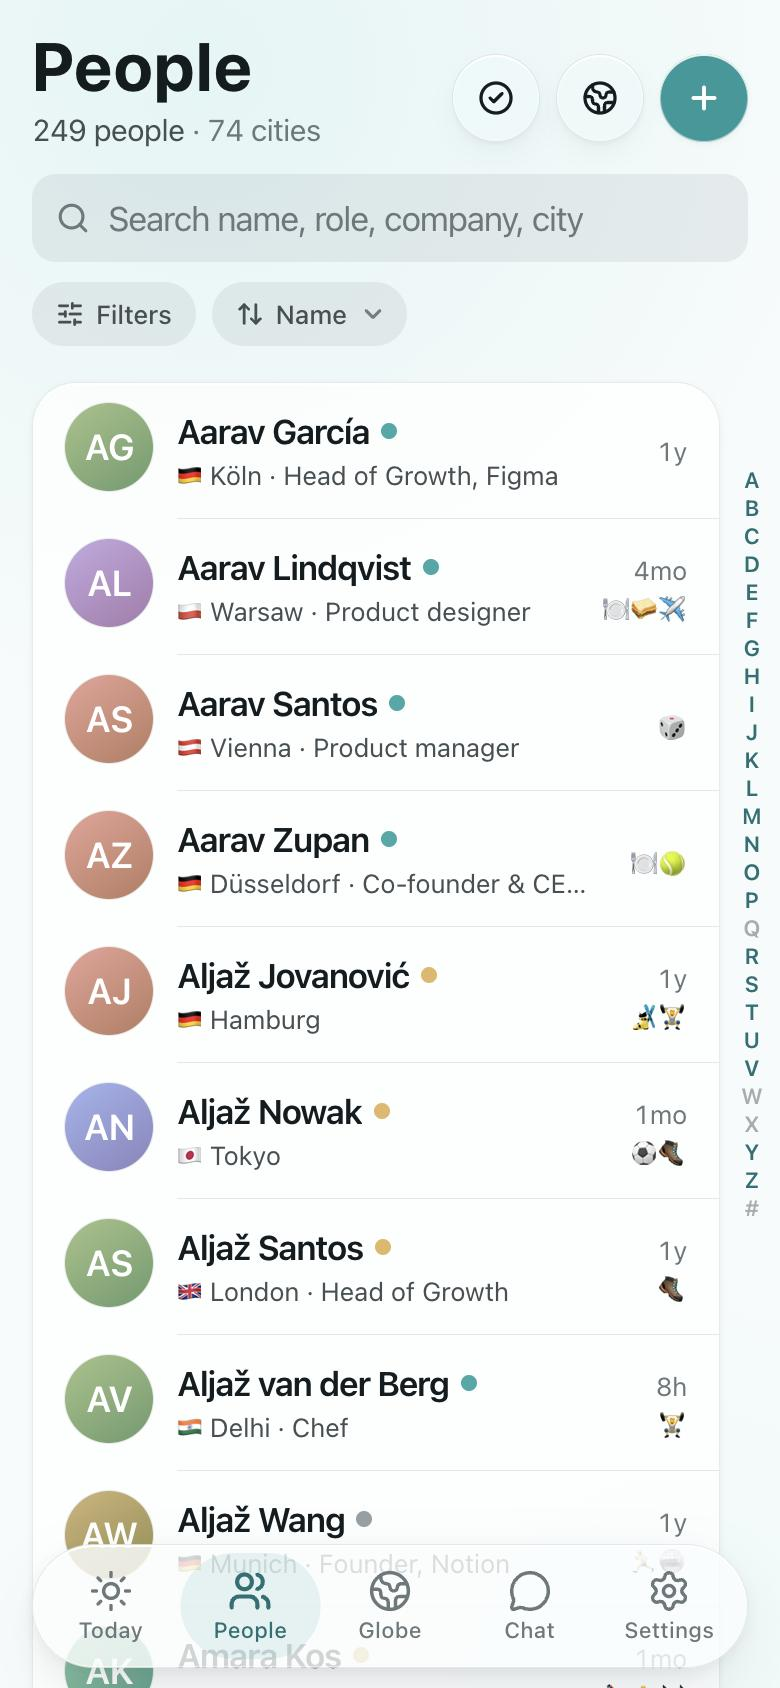
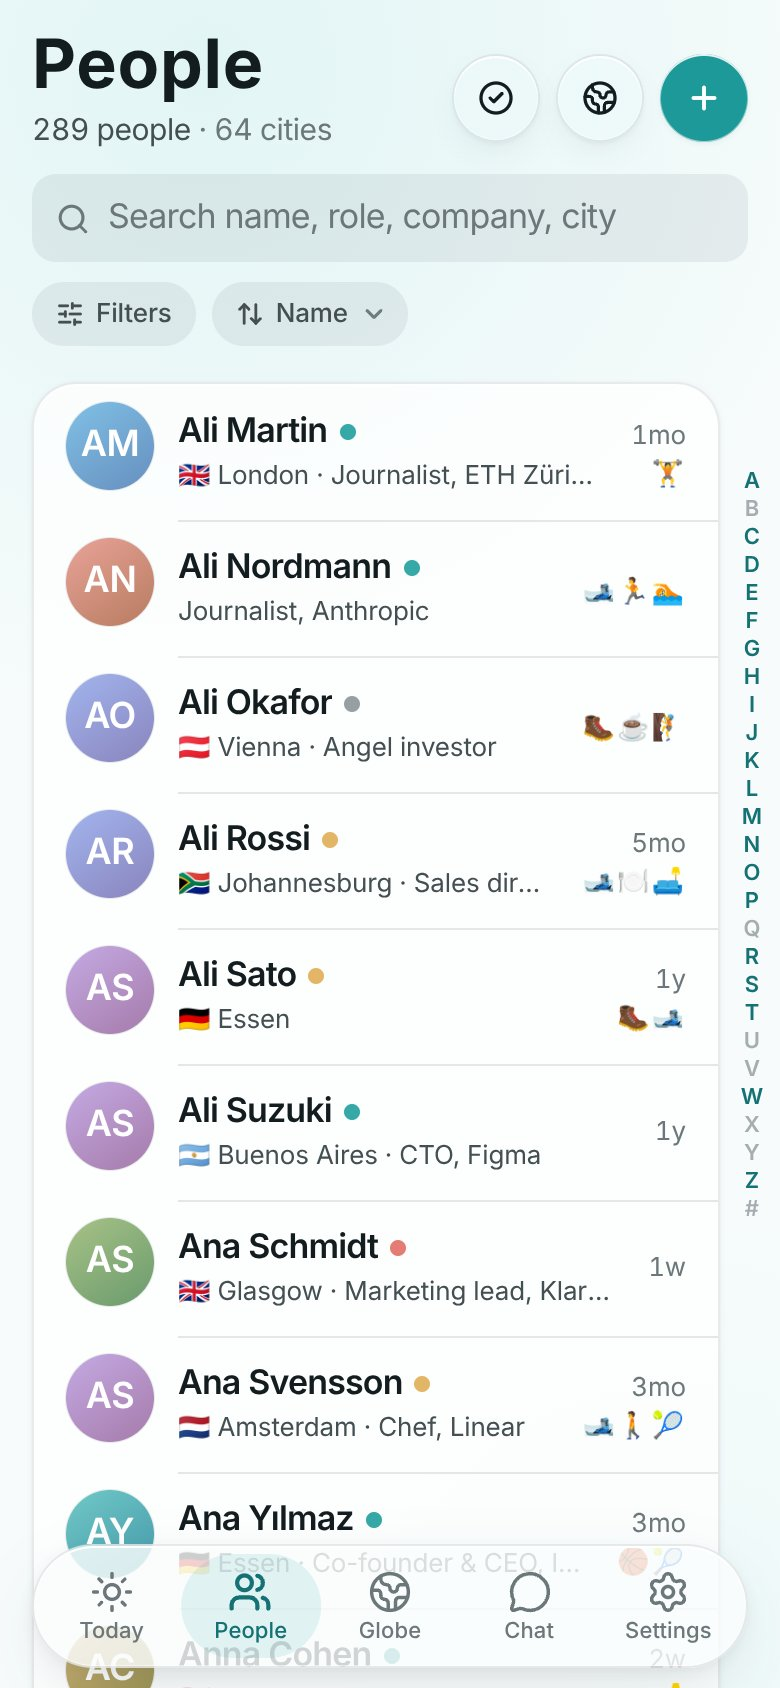
README screenshots retaken from the real app with a placeholder cast
The README and landing-page images (Today, a person, People, Globe and the
social card) are new screenshots of the app running locally. They show
placeholder people (Hanako Yamada, Max Mustermann, Marie Dupont, John Doe,
Ola Nordmann) instead of names that match real people.

scripts/dev/seed-demo.ts seeds that cast. The seed scripts draw from neutral
name pools, spread people over every continent and never repeat a name.

Claude-Session: https://claude.ai/code/session_01SZ8xALtSGsx2UckXDu2Tt8

diff --git a/scripts/dev/seed-people.ts b/scripts/dev/seed-people.ts
@@ -42,10 +42,10 @@ const FIRST = [
   "Anna", "Maria", "John", "Jane", "Max", "Erika", "Ola", "Kari", "Jan", "Janez", "Marija", "Ivan", "Petra", "Marko", "Ana", "José",
   "Juan", "Carlos", "Sofia", "Emma", "Lucas", "Noah", "Mia", "Leon", "Hanna", "Sven", "Matti", "Maija", "Hanako", "Taro", "Kenji", "Wei",
   "Ali", "Fatima", "Omar", "Grace", "Thabo", "Raj", "Pedro", "João", "Rita", "Tiago", "Elena", "Luca", "Giulia", "Marie", "Jean", "Pierre",
-  "David", "Daniel", "Laura", "Paul", "Peter", "Eva", "Tom", "Nina", "Sara", "Lena", "Oscar", "Zoë",
+  "David", "Daniel", "Laura", "Paul", "Peter", "Eva", "Tom", "Nina", "Lina", "Lena", "Oscar", "Zoë",
 ];
 const LAST = [
-  "Doe", "Smith", "Bloggs", "Novak", "Horvat", "Kovač", "Mustermann", "Müller", "Schmidt", "Rossi", "Bianchi", "Dupont", "Martin", "García",
+  "Doe", "Smith", "Bloggs", "Novak", "Horvat", "Kovač", "Mustermann", "Weber", "Schmidt", "Rossi", "Bianchi", "Dupont", "Martin", "García",
   "Pérez", "López", "Silva", "Santos", "Costa", "Jansen", "de Vries", "Nordmann", "Hansen", "Andersson", "Svensson", "Virtanen", "Nagy",
   "Popescu", "Petrović", "Yılmaz", "Cohen", "Hassan", "Kim", "Lee", "Park", "Wang", "Li", "Zhang", "Chen", "Yamada", "Sato", "Suzuki",
   "Nguyen", "Singh", "Kumar", "Mwangi", "Okafor", "Brown", "Wilson", "Taylor",
@@ -113,7 +113,8 @@ async function seed(count: number) {
 
   // Unique names, also against people already there (e.g. scripts/dev/seed-demo.ts), so People shows no "Possible duplicates".
   const nameKey = (name: string) => name.normalize("NFD").replace(/\p{M}/gu, "").toLowerCase().split(/\s+/).sort().join(" ");
-  const taken = new Set((await sql<{ name: string }[]>`select display_name as name from people where owner_id = ${owner} and deleted_at is null`).map((r) => nameKey(r.name)));
+  const existing = await sql<{ name: string }[]>`select display_name as name from people where owner_id = ${owner} and deleted_at is null`;
+  const taken = new Set(existing.map((r) => nameKey(r.name)));
   const uniqueName = (): [string, string] => {
     let name: [string, string];
     let tries = 0;

diff --git a/scripts/dev/globe-seed.ts b/scripts/dev/globe-seed.ts
@@ -60,10 +60,10 @@ const FIRST = [
   "Anna", "Maria", "John", "Jane", "Max", "Erika", "Ola", "Kari", "Jan", "Janez", "Marija", "Ivan", "Petra", "Marko", "Ana", "José",
   "Juan", "Carlos", "Sofia", "Emma", "Lucas", "Noah", "Mia", "Leon", "Hanna", "Sven", "Matti", "Maija", "Hanako", "Taro", "Kenji", "Wei",
   "Ali", "Fatima", "Omar", "Grace", "Thabo", "Raj", "Pedro", "João", "Rita", "Tiago", "Elena", "Luca", "Giulia", "Marie", "Jean", "Pierre",
-  "David", "Daniel", "Laura", "Paul", "Peter", "Eva", "Tom", "Nina", "Sara", "Lena", "Oscar", "Zoë",
+  "David", "Daniel", "Laura", "Paul", "Peter", "Eva", "Tom", "Nina", "Lina", "Lena", "Oscar", "Zoë",
 ];
 const LAST = [
-  "Doe", "Smith", "Bloggs", "Novak", "Horvat", "Kovač", "Mustermann", "Müller", "Schmidt", "Rossi", "Bianchi", "Dupont", "Martin", "García",
+  "Doe", "Smith", "Bloggs", "Novak", "Horvat", "Kovač", "Mustermann", "Weber", "Schmidt", "Rossi", "Bianchi", "Dupont", "Martin", "García",
   "Pérez", "López", "Silva", "Santos", "Costa", "Jansen", "de Vries", "Nordmann", "Hansen", "Andersson", "Svensson", "Virtanen", "Nagy",
   "Popescu", "Petrović", "Yılmaz", "Cohen", "Hassan", "Kim", "Lee", "Park", "Wang", "Li", "Zhang", "Chen", "Yamada", "Sato", "Suzuki",
   "Nguyen", "Singh", "Kumar", "Mwangi", "Okafor", "Brown", "Wilson", "Taylor",

diff --git a/promo/src/data/demo.ts b/promo/src/data/demo.ts
@@ -193,10 +193,10 @@ const FIRST = [
   "Anna", "Maria", "John", "Jane", "Max", "Erika", "Ola", "Kari", "Jan", "Janez", "Marija", "Ivan", "Petra", "Marko", "Ana", "José",
   "Juan", "Carlos", "Sofia", "Emma", "Lucas", "Noah", "Mia", "Leon", "Hanna", "Sven", "Matti", "Maija", "Hanako", "Taro", "Kenji", "Wei",
   "Ali", "Fatima", "Omar", "Grace", "Thabo", "Raj", "Pedro", "João", "Rita", "Tiago", "Elena", "Luca", "Giulia", "Marie", "Jean", "Pierre",
-  "David", "Daniel", "Laura", "Paul", "Peter", "Eva", "Tom", "Nina", "Sara", "Lena", "Oscar", "Zoë",
+  "David", "Daniel", "Laura", "Paul", "Peter", "Eva", "Tom", "Nina", "Lina", "Lena", "Oscar", "Zoë",
 ];
 const LAST = [
-  "Doe", "Smith", "Bloggs", "Novak", "Horvat", "Kovač", "Mustermann", "Müller", "Schmidt", "Rossi", "Bianchi", "Dupont", "Martin",
+  "Doe", "Smith", "Bloggs", "Novak", "Horvat", "Kovač", "Mustermann", "Weber", "Schmidt", "Rossi", "Bianchi", "Dupont", "Martin",
   "García", "Pérez", "López", "Silva", "Santos", "Costa", "Jansen", "de Vries", "Nordmann", "Hansen", "Andersson", "Svensson", "Virtanen",
   "Nagy", "Popescu", "Petrović", "Yılmaz", "Cohen", "Hassan", "Kim", "Lee", "Park", "Wang", "Li", "Zhang", "Chen", "Yamada", "Sato",
   "Suzuki", "Nguyen", "Singh", "Kumar", "Mwangi", "Okafor", "Brown", "Wilson", "Taylor",

diff --git a/README.md b/README.md
@@ -257,6 +257,7 @@ Run with `pnpm tsx scripts/…`:
 | Script | What it does |
 | --- | --- |
 | `seed-dev-user.ts` | Local owner `dev@local.test` (superseded by `pnpm bootstrap`) |
+| `dev/seed-demo.ts seed` / `clean` | Local only: the placeholder cast from the screenshots (Hanako Yamada, John Doe, …) |
 | `dev/seed-people.ts seed [n]` / `clean` | Local only: fake people for list and filter testing |
 | `dev/globe-seed.ts [--remove]` | Local only: fake people across 40 cities for the globe |
 | `send-test-digest.ts you@example.com` | Send today's digest through the configured transport |
